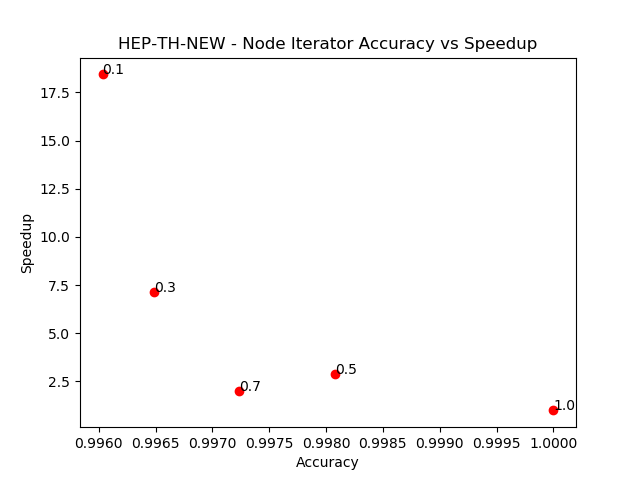
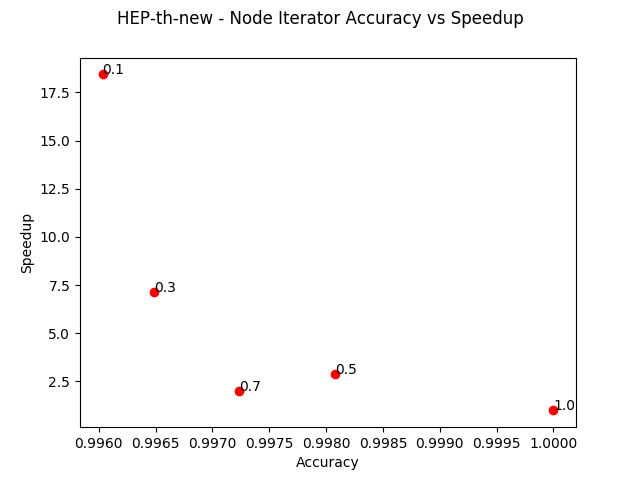
update

diff --git a/parse_results.py b/parse_results.py
@@ -60,7 +60,19 @@ def main():
 		('Node Iterator', 'Epinions', 'results/epinions/', 'node_iter/'),
 		('Edge Iterator', 'Epinions', 'results/epinions/', 'edge_iter/'),
 		('Trace-Exact', 'Epinions', 'results/epinions/', 'trace_exact/'),
+		#
+		('Node Iterator', 'Random ER', 'results/random_np/', 'node_iter/'),
+		('Edge Iterator', 'Random ER', 'results/random_np/', 'edge_iter/'),
+		('Trace-Exact', 'Random ER', 'results/random_np/', 'trace_exact/'),
+		#
+		('Node Iterator', 'HEP-th-new', 'results/hep_th/', 'node_iter/'),
+		('Edge Iterator', 'HEP-th-new', 'results/hep_th/', 'edge_iter/'),
+		('Trace-Exact', 'HEP-th-new', 'results/hep_th/', 'trace_exact/'),		
+		('Birthday Paradox', 'HEP-th-new', 'results/hep_th/', 'birthday/'),
+		('Trace-Est', 'HEP-th-new', 'results/hep_th/', 'trace_est/'),
+
 	]
+
 	for (alg_name, data_name, dataset, alg) in vis_sets:
 		file = dataset + alg + 'result.txt'
 		# savefile = dataset+alg+"result.png"
